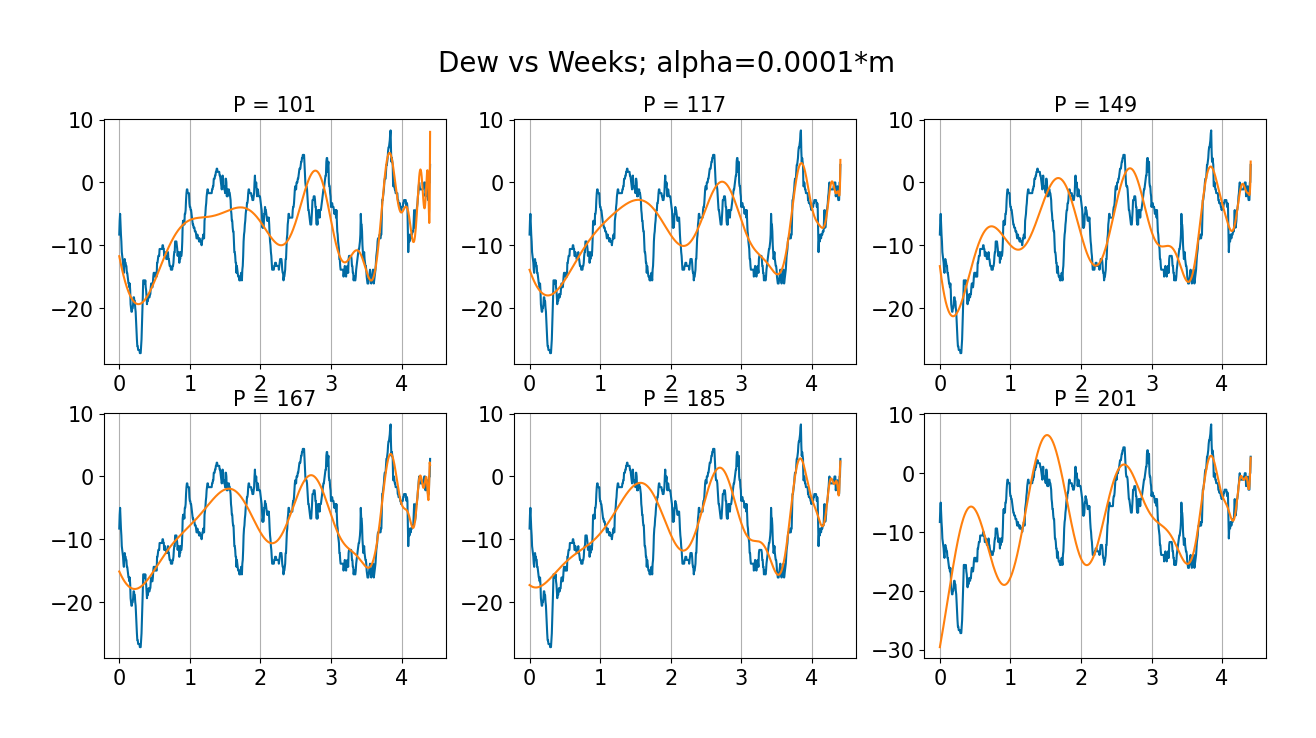
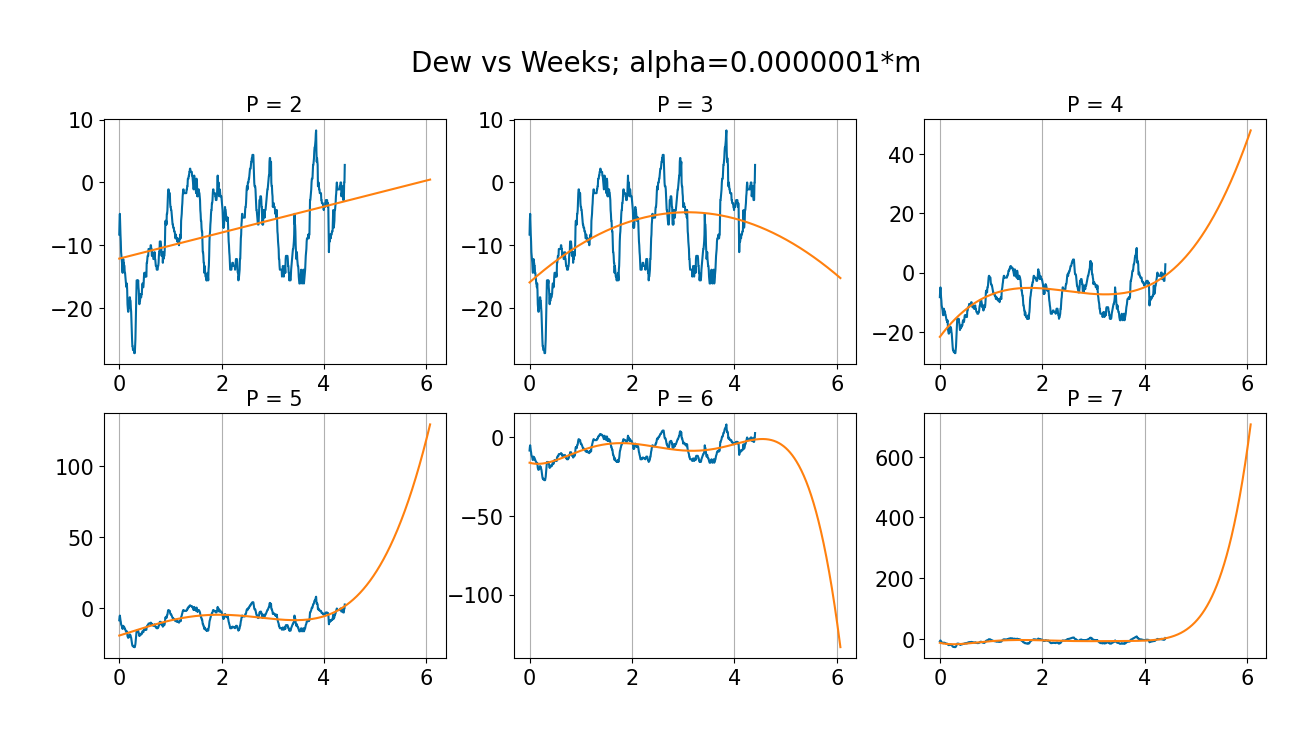
HW 1 wrapping up

diff --git a/hw1/Solutions/4.py b/hw1/Solutions/4.py
@@ -109,13 +109,13 @@ def plot_regression(pred_dict:dict, y:np.ndarray, X:np.ndarray, file_path:str=No
     for i in range(len(pred_dict.keys())):
         p = sorted(list(pred_dict.keys()))[i]
         y_pred = pred_dict[p]
-        axs[i//3, i%3].plot(X, y)
-        axs[i//3, i%3].plot(X, y_pred)
+        axs[i//3, i%3].plot(X[:len(y)], y)
+        axs[i//3, i%3].plot(X[:len(y_pred)], y_pred)
         axs[i//3, i%3].set_title(f"P = {p}", fontsize=15)
         axs[i//3, i%3].grid(axis="x")
         axs[i//3, i%3].tick_params(axis='both', which='major', labelsize=15)
 
-    alpha = "0" if ridge==False else "0.0001*m"
+    alpha = "0" if ridge==False else "1e-7*m"
     fig.suptitle(f"Dew vs Weeks; alpha={alpha}", fontsize=20)
 
     fig.savefig(f"{file_path}", bbox_inches="tight", pad_inches=0.5)
@@ -133,14 +133,14 @@ def plot_regression_alpha(pred_dict:dict, y:np.ndarray, X:np.ndarray, file_path:
     for i in range(len(pred_dict.keys())):
         alpha = sorted(list(pred_dict.keys()))[i]
         y_pred = pred_dict[alpha]
-        axs[i//3, i%3].plot(X, y)
-        axs[i//3, i%3].plot(X, y_pred)
-        alpha_ = np.around(alpha/len(y_pred), decimals=5)
+        axs[i//3, i%3].plot(X[:len(y)], y)
+        axs[i//3, i%3].plot(X[:len(y_pred)], y_pred)
+        alpha_ = np.around(alpha/(len(y)), decimals=8)
         axs[i//3, i%3].set_title(f"alpha = {alpha_}*m", fontsize=15)
         axs[i//3, i%3].grid(axis="x")
         axs[i//3, i%3].tick_params(axis='both', which='major', labelsize=15)
 
-    P = 167
+    P = 6
     fig.suptitle(f"Dew vs Weeks; P={P}", fontsize=20)
 
     fig.savefig(f"{file_path}", bbox_inches="tight", pad_inches=0.5)
@@ -178,7 +178,7 @@ def prediction_over_p(P:list, X:np.ndarray, y:np.ndarray, alpha:float=0):
     for p in P:
         ridge = RidgeRegression(num_dims=p, alpha=alpha)
         X_new = transform_polynomial(p, X)
-        ridge.fit(X_new, y)
+        ridge.fit(X_new[:len(y)], y)
         pred_dict[p] = ridge.predict(X_new)
     
     return pred_dict
@@ -193,7 +193,7 @@ def prediction_over_alpha(P:int, alphas:list, X:np.ndarray, y:np.ndarray):
     X = transform_polynomial(P, X)
     for alpha in alphas:
         ridge = RidgeRegression(num_dims=P, alpha=alpha)
-        ridge.fit(X, y)
+        ridge.fit(X[:len(y)], y)
         pred_dict[alpha] = ridge.predict(X)
     
     return pred_dict
@@ -202,6 +202,7 @@ def prediction_over_alpha(P:int, alphas:list, X:np.ndarray, y:np.ndarray):
 ###########################################
 
 if __name__ == '__main__':
+    ###########################################
     #Load data
     data_dict = load_data()
     print ("Data loaded:")
@@ -210,9 +211,13 @@ if __name__ == '__main__':
         print (i, data_dict[i].shape)
     print ('-----------------------------------------\n')
 
+    ###########################################
     #plot method
     plot(data_dict["X"], data_dict["y"])
-    #print ('-----------------------------------------\n')
+    print ('-----------------------------------------\n')
+
+    ###########################################
+    #condition number
     P = [2, 3, 6, 11]
     condition_numbers = []
     for p in P[:]:
@@ -220,48 +225,65 @@ if __name__ == '__main__':
 
     print (f"Condition Numbers")
     print (np.array(condition_numbers))
+    print ('-----------------------------------------\n')
 
+    ###########################################
+    #Linear regression w/o regularization
     P = [2, 3, 11, 101, 151, 201]
     predictions_linreg = prediction_over_p(P, alpha=0, X=data_dict["X"], y=data_dict["y"])
     plot_regression(predictions_linreg, data_dict["y"], data_dict["X"])
 
+    ###########################################
+    #Linear reg with regularization
     predictions_ridgereg = prediction_over_p(P, alpha=0.0001 * len(data_dict["y"]), X=data_dict["X"], y=data_dict["y"])
     plot_regression(predictions_ridgereg, data_dict["y"], data_dict["X"], ridge=True)
     
-    P = [101, 117, 149, 167, 185, 201]
-    predictions_ridgereg_p = prediction_over_p(P, alpha=0.0001 * len(data_dict["y"]), X=data_dict["X"][:-1], y=data_dict["y"][1:])
-    plot_regression(predictions_ridgereg_p, data_dict["y"][1:], data_dict["X"][:-1], ridge=True, file_path="predictions_ridge_p_search.png")
-
-    alphas = [1* len(data_dict["y"]), 0.1* len(data_dict["y"]), 0.01* len(data_dict["y"]), \
-              0.001* len(data_dict["y"]), 0.0001* len(data_dict["y"]), 0.00001* len(data_dict["y"])] 
-
-    predictions_ridgereg_alpha = prediction_over_alpha(P = 167, alphas=alphas, X=data_dict["X"][:-1], y=data_dict["y"][1:])
-    plot_regression_alpha(predictions_ridgereg_alpha, data_dict["y"][1:], data_dict["X"][:-1], file_path="predictions_ridge_alpha_search.png")
-
+    ###########################################
+    #Linear reg with regularization for performing day ahead predictions. 
     X_new = [data_dict["X"][-1] + (data_dict["X"][1] - data_dict["X"][0]), ]
-    for i in range(1, 100):
+    #Creating future values for X
+    for i in range(1, 280):
         X_new.append(X_new[i-1] + (data_dict["X"][1] - data_dict["X"][0]))
-    
-    
-    P=6
-    ridge = RidgeRegression(num_dims=P, alpha=0.000000001*len(data_dict["y"]))
+    X_train_test = np.array(data_dict["X"].tolist() + X_new).reshape(-1,)
+    print (X_train_test[-10:])
+
+    #First searching through P for an optimal value by setting a stern regularization param(alpha=1e-7)
+    P = [2, 3, 4, 5, 6, 7]
+    predictions_ridgereg_p = prediction_over_p(P, alpha=0.0000001 * len(data_dict["y"]), X=X_train_test[:-1], y=data_dict["y"][1:])
+    plot_regression(predictions_ridgereg_p, data_dict["y"][1:], X_train_test, ridge=True, file_path="predictions_ridge_p_search.png")
+
+    #Searching for the right regularization for the best P(=6) from the above plot.
+    alphas = [0.1* len(data_dict["y"]), 0.01* len(data_dict["y"]), 0.001* len(data_dict["y"]), \
+              0.0001* len(data_dict["y"]), 0.00001* len(data_dict["y"]), 0.0000001 * len(data_dict["y"])] 
+
+    predictions_ridgereg_alpha = prediction_over_alpha(P = 3, alphas=alphas, X=X_train_test[:-1], y=data_dict["y"][1:])
+    plot_regression_alpha(predictions_ridgereg_alpha, data_dict["y"][1:], X_train_test[:-1], file_path="predictions_ridge_alpha_search.png")
+
+    #PLotting the predictions in future for the best P(=6) and alpha(=1e-3, 1e-2). 
+    P=3
     X = transform_polynomial(p=P, X = data_dict["X"])
-    ridge.fit(X, data_dict["y"])
     X_train_test = transform_polynomial(p=P, X = np.array(data_dict["X"].tolist() + X_new).reshape(-1,))
-    pred = ridge.predict(X_train_test)
+    
+    ridge = RidgeRegression(num_dims=P, alpha=0.01*len(data_dict["y"]))
+    ridge.fit(X, data_dict["y"])
+    pred_1 = ridge.predict(X_train_test)
+    ridge = RidgeRegression(num_dims=P, alpha=0.001*len(data_dict["y"]))
+    ridge.fit(X, data_dict["y"])
+    pred_2 = ridge.predict(X_train_test)
 
     fig, ax = plt.subplots(figsize=(15, 15))
-    ax.plot(X[:, 1], data_dict["y"], linewidth=7, label="True")
-    ax.plot(X_train_test[:, 1], pred, linewidth=10, linestyle="dashed", label = "Pred")
+    ax.plot(X[:, 1], data_dict["y"], linewidth=5, label="True", color="gray")
+    ax.plot(X_train_test[:, 1], pred_1, linewidth=10, linestyle="dashed", label = "Pred; alpha=0.01*m")
+    ax.plot(X_train_test[:, 1], pred_2, linewidth=10, linestyle="dotted", label = "Pred; alpha=0.001*m", color="r")
     ax.set_xlabel("Weeks after first reading", fontsize=30)
     ax.set_ylabel(f"Dew Point Temp (C)", fontsize=30)
-    #ax.set_title("", fontsize=40)
+    ax.set_title("P=3", fontsize=40)
     ax.tick_params(axis='both', which='major', labelsize=30)
     ax.grid()
     ax.legend(fontsize=30)
     fig.savefig(f"test.png", bbox_inches="tight", pad_inches=0.5)
     print (f"Plot saved as test.png")
-
+    
 ###########################################
 ###########################################
 ###########################################
